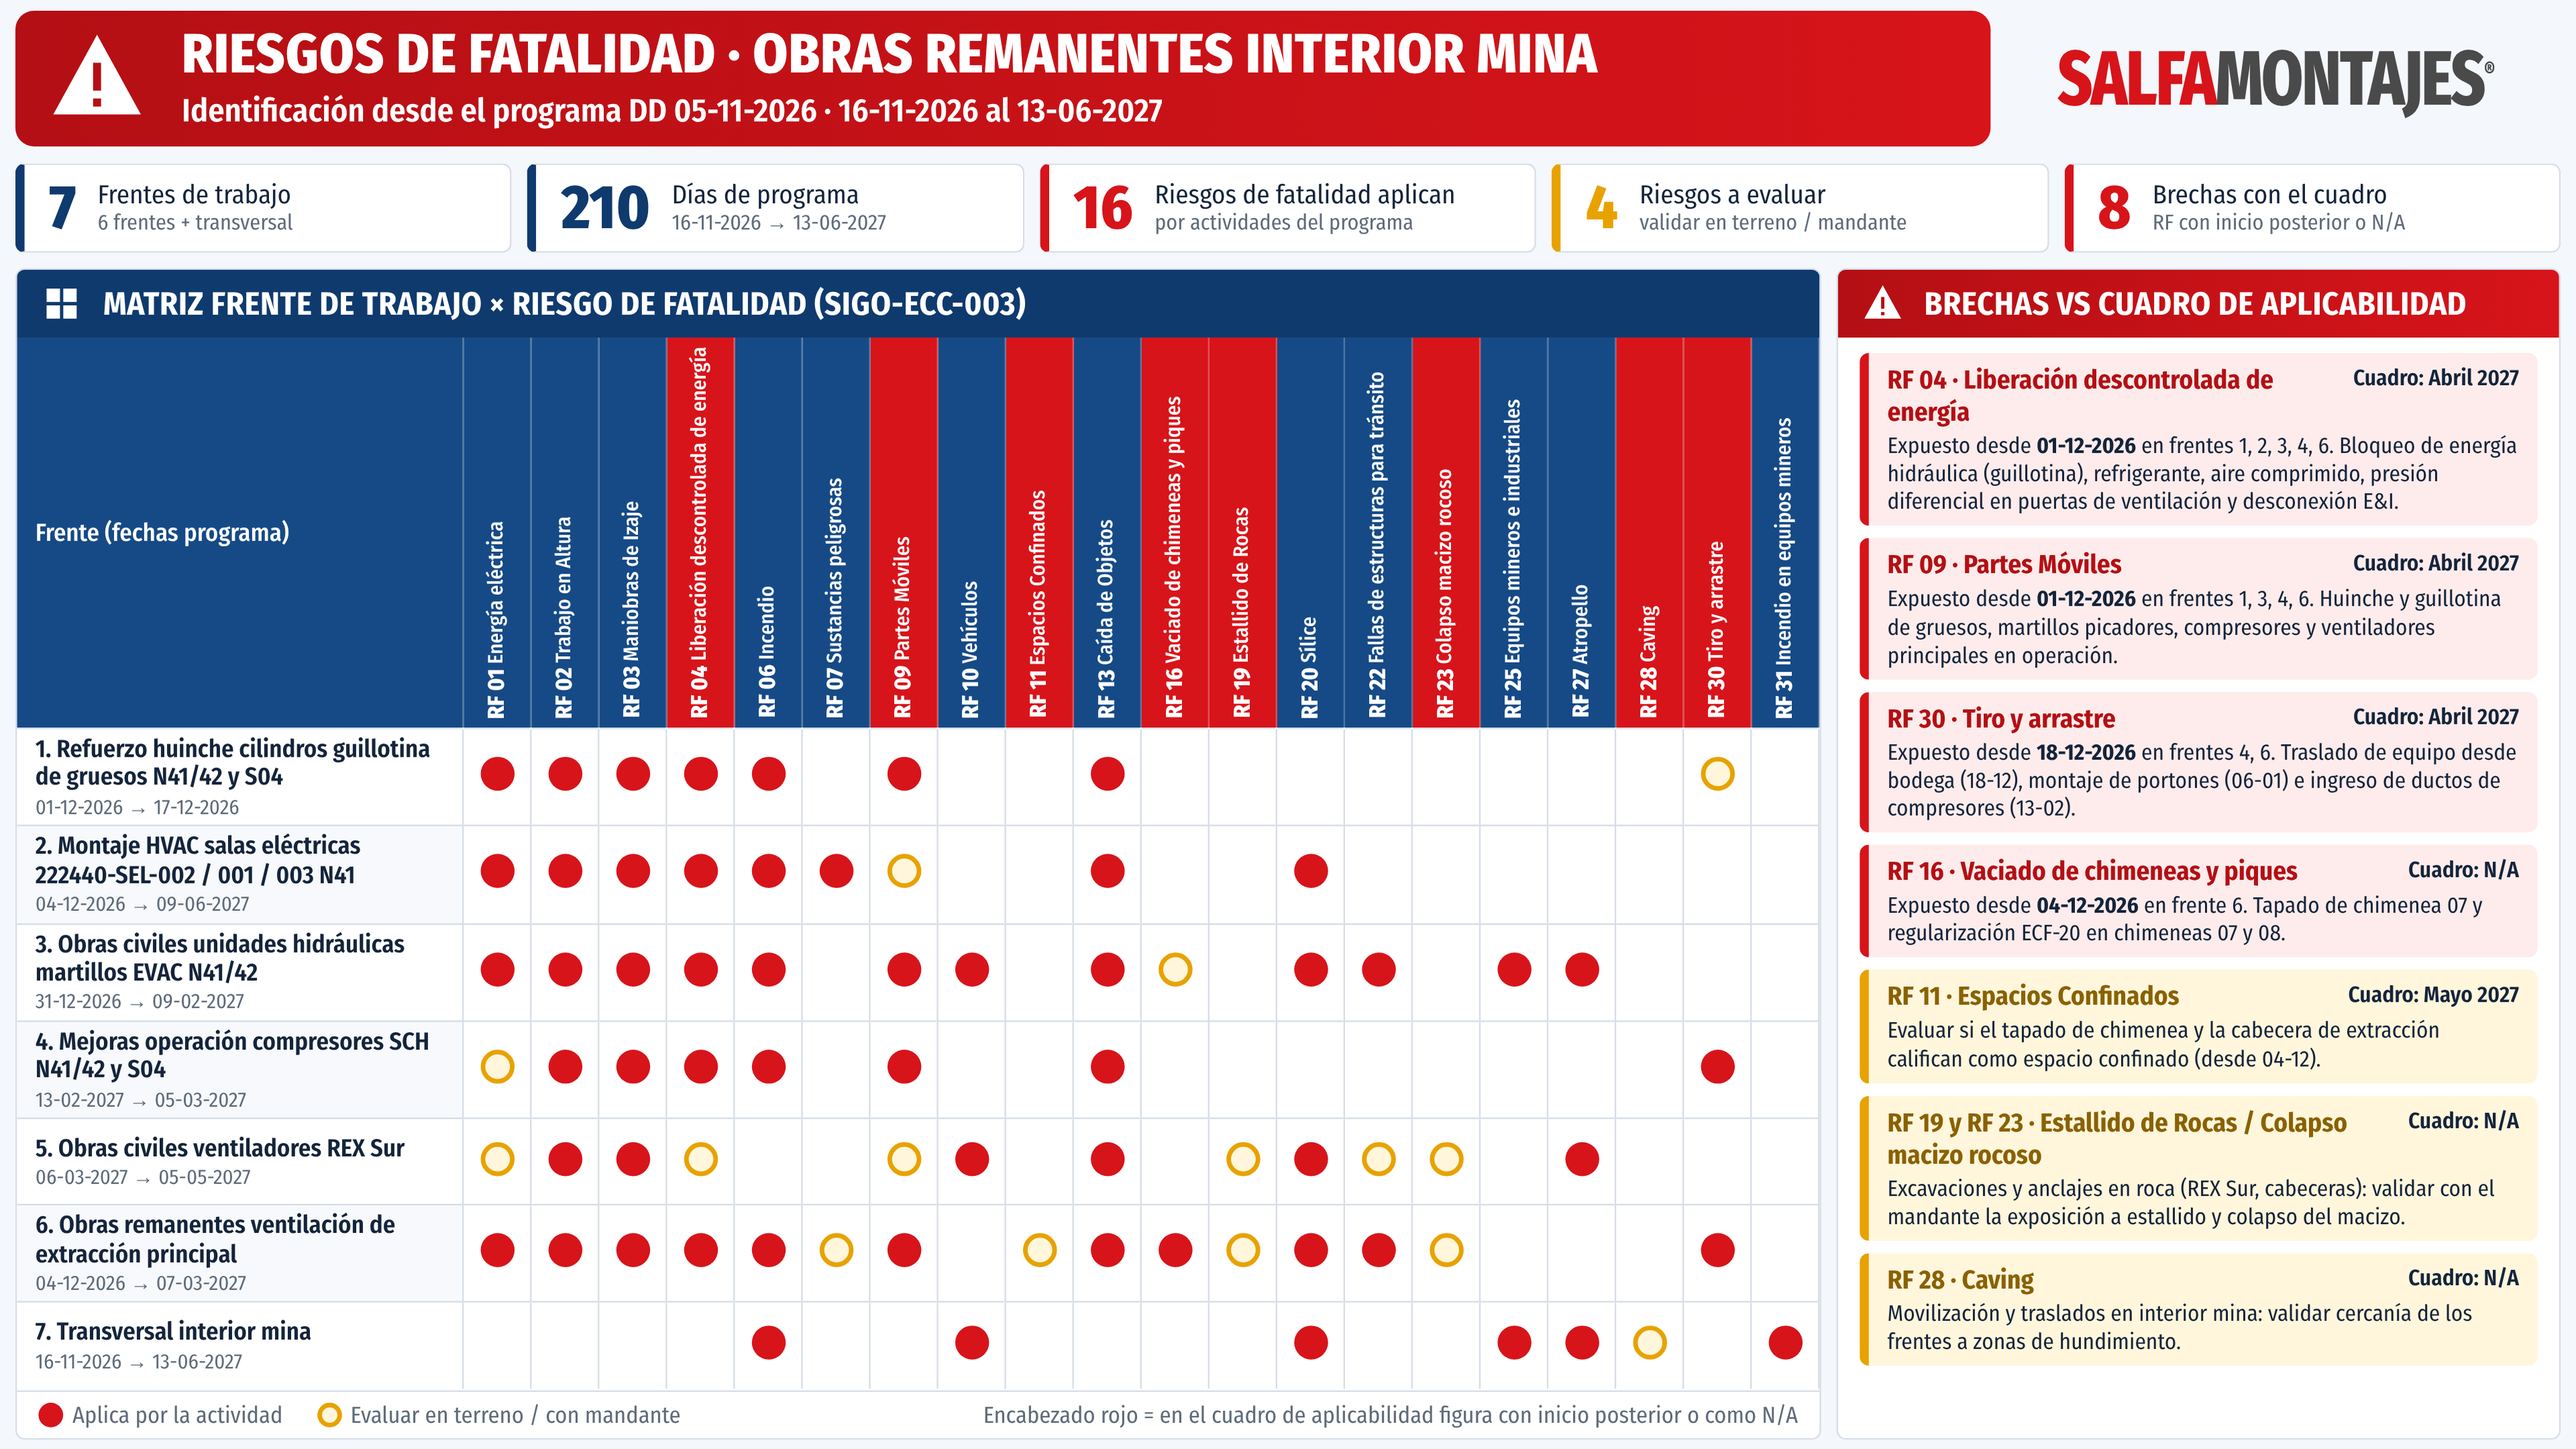
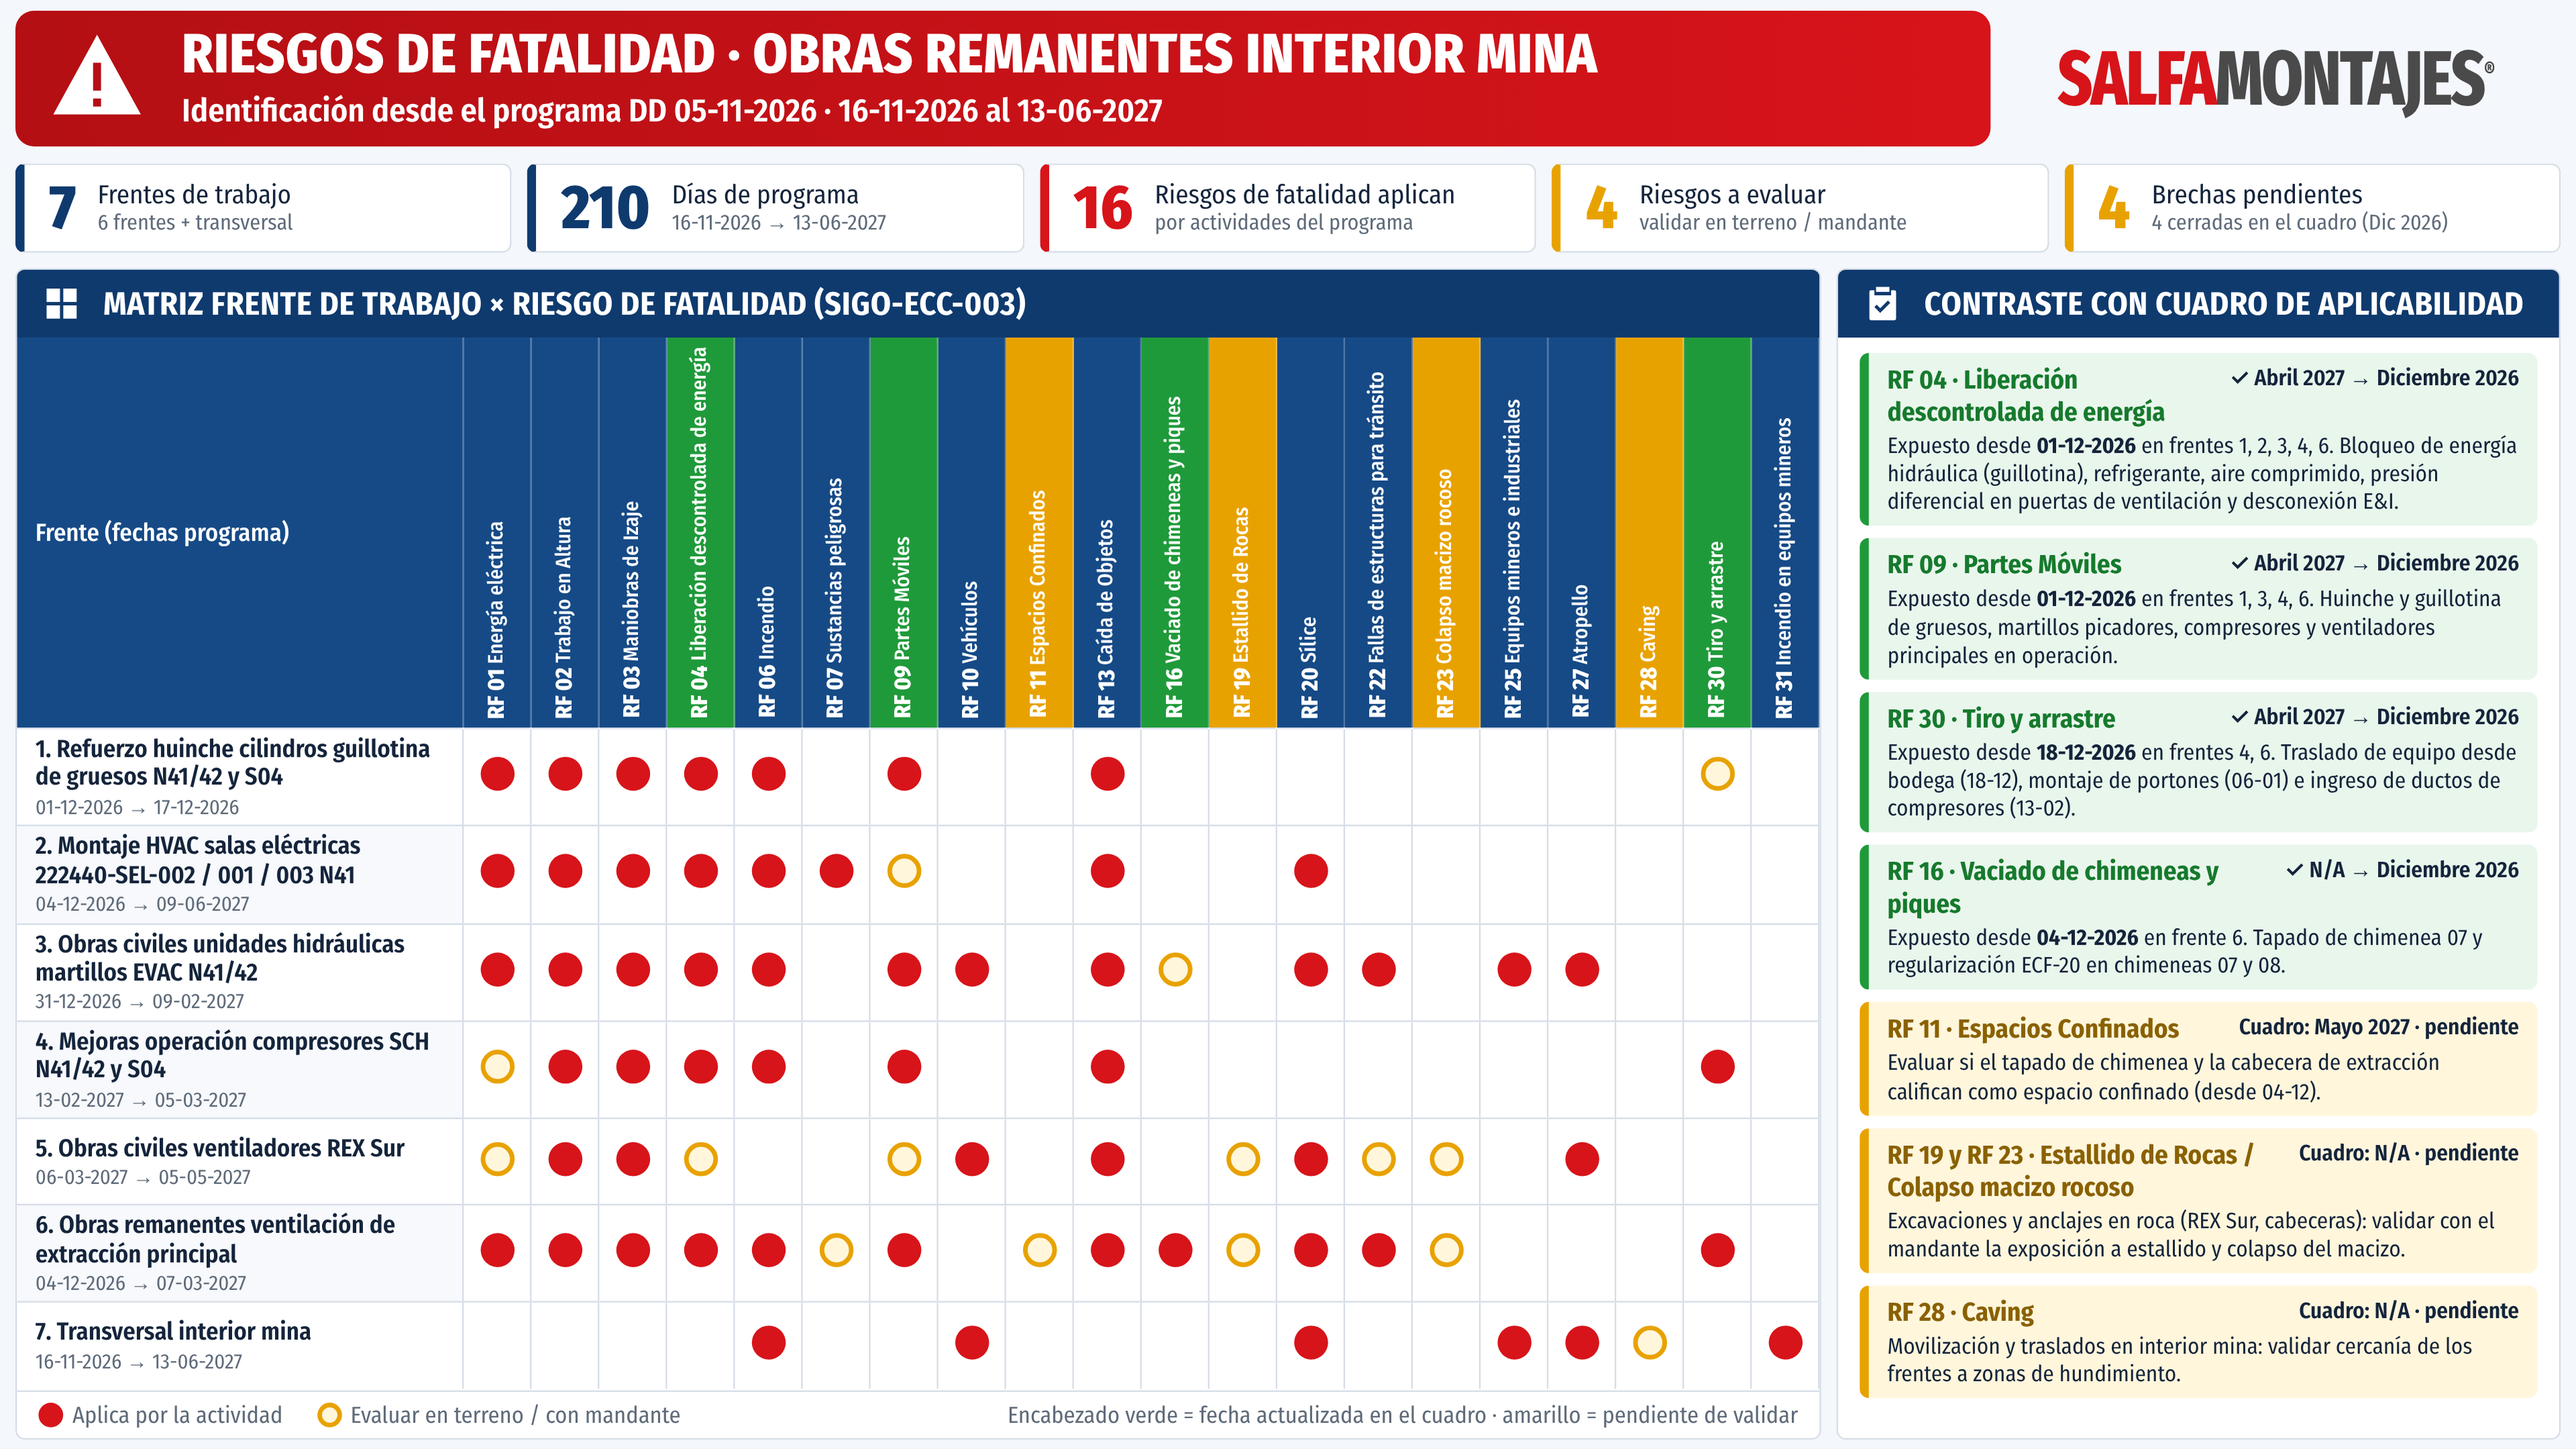
Actualizar diapositivas de riesgos del programa: brechas cerradas y pendientes con el cuadro
Claude-Session: https://claude.ai/code/session_01R7SUHWrVXsce4pGmmGYyHg

diff --git a/riesgos-fatalidad-obras-remanentes-interior-mina.html b/riesgos-fatalidad-obras-remanentes-interior-mina.html
@@ -35,7 +35,7 @@
   .mx th.rf{height:138px;width:44px;padding:0;vertical-align:bottom}
   .mx th.rf div{writing-mode:vertical-rl;transform:rotate(180deg);font-size:13.5px;line-height:1.05;padding:6px 0;margin:0 auto;white-space:nowrap}
   .mx th.rf div b{font-weight:800;font-size:15px}
-  .mx th.rf.alert{background:var(--red)}
+  .mx th.rf.alert{background:var(--amber)}.mx th.rf.done{background:var(--green)}
   .mx th.fr{text-align:left;padding:0 12px;font-size:16px}
   .mx td{border-top:1px solid var(--line);border-right:1px solid var(--line);text-align:center;height:56px;font-size:15px}
   .mx td.fr{text-align:left;padding:4px 12px;font-size:16px;line-height:1.15;font-weight:600}
@@ -51,6 +51,8 @@
   .alerts{padding:10px 14px;display:flex;flex-direction:column;gap:8px;overflow:hidden}
   .al{border-left:6px solid var(--red);background:#fdeceb;border-radius:6px;padding:7px 12px}
   .al.e{border-color:var(--amber);background:#fff6dc}
+  .al.ok{border-color:var(--green);background:#e9f6ec}
+  .al.ok h4{color:#167a2d}
   .al h4{font-size:17px;font-weight:700;color:var(--red2);display:flex;justify-content:space-between;gap:8px}
   .al.e h4{color:#8a6100}
   .al h4 span{font-weight:600;color:var(--ink);font-size:14.5px;white-space:nowrap}
@@ -88,10 +90,10 @@
     <div class="card">
       <div class="head"><svg viewBox="0 0 24 24"><path d="M3 3h8v8H3zm10 0h8v8h-8zM3 13h8v8H3zm10 0h8v8h-8z"/></svg>MATRIZ FRENTE DE TRABAJO × RIESGO DE FATALIDAD (SIGO-ECC-003)</div>
       <table class="mx" id="mx"></table>
-      <div class="legend"><span><span class="dot a"></span>Aplica por la actividad</span><span><span class="dot e"></span>Evaluar en terreno / con mandante</span><span style="margin-left:auto">Encabezado rojo = en el cuadro de aplicabilidad figura con inicio posterior o como N/A</span></div>
+      <div class="legend"><span><span class="dot a"></span>Aplica por la actividad</span><span><span class="dot e"></span>Evaluar en terreno / con mandante</span><span style="margin-left:auto">Encabezado verde = fecha actualizada en el cuadro · amarillo = pendiente de validar</span></div>
     </div>
     <div class="card">
-      <div class="head red"><svg viewBox="0 0 24 24"><path d="M12 1 23 21H1zm-1 7v7h2V8zm0 9v2h2v-2z"/></svg>BRECHAS VS CUADRO DE APLICABILIDAD</div>
+      <div class="head"><svg viewBox="0 0 24 24"><path d="M8 2h8v3H8zM5 4h2v3h10V4h2a1 1 0 0 1 1 1v16a1 1 0 0 1-1 1H5a1 1 0 0 1-1-1V5a1 1 0 0 1 1-1zm5.5 13.5 6-6-1.4-1.4-4.6 4.6-2.1-2.1-1.4 1.4z"/></svg>CONTRASTE CON CUADRO DE APLICABILIDAD</div>
       <div class="alerts" id="alerts"></div>
     </div>
   </div>
@@ -125,12 +127,12 @@
 // Riesgos de fatalidad (SIGO-ECC-003) y su estado en el cuadro de aplicabilidad Etapa 2
 const RF = {
   1:['Energía eléctrica','Vigente'], 2:['Trabajo en Altura','Vigente'], 3:['Maniobras de Izaje','Vigente'],
-  4:['Liberación descontrolada de energía','Abril 2027'], 6:['Incendio','Vigente'], 7:['Sustancias peligrosas','Vigente'],
-  9:['Partes Móviles','Abril 2027'], 10:['Vehículos','Vigente'], 11:['Espacios Confinados','Mayo 2027'],
-  13:['Caída de Objetos','Vigente'], 16:['Vaciado de chimeneas y piques','N/A'], 19:['Estallido de Rocas','N/A'],
+  4:['Liberación descontrolada de energía','Diciembre 2026','Abril 2027'], 6:['Incendio','Vigente'], 7:['Sustancias peligrosas','Vigente'],
+  9:['Partes Móviles','Diciembre 2026','Abril 2027'], 10:['Vehículos','Vigente'], 11:['Espacios Confinados','Mayo 2027'],
+  13:['Caída de Objetos','Vigente'], 16:['Vaciado de chimeneas y piques','Diciembre 2026','N/A'], 19:['Estallido de Rocas','N/A'],
   20:['Sílice','Vigente'], 22:['Fallas de estructuras para tránsito','Vigente'], 23:['Colapso macizo rocoso','N/A'],
   25:['Equipos mineros e industriales','Vigente'], 27:['Atropello','Vigente'], 28:['Caving','N/A'],
-  30:['Tiro y arrastre','Abril 2027'], 31:['Incendio en equipos mineros','Vigente']
+  30:['Tiro y arrastre','Diciembre 2026','Abril 2027'], 31:['Incendio en equipos mineros','Vigente']
 };
 const COLS = Object.keys(RF).map(Number);
 
@@ -203,7 +205,8 @@ const F = [
 const pad=n=>String(n).padStart(2,'0');
 F.forEach(f=>{f.A=new Set();f.E=new Set();f.p.forEach(([_,a,e])=>{a.forEach(x=>f.A.add(x));(e||[]).forEach(x=>f.E.add(x))});f.A.forEach(x=>f.E.delete(x))});
 const allA=new Set(F.flatMap(f=>[...f.A])), allE=new Set(F.flatMap(f=>[...f.E]).filter(x=>!allA.has(x)));
-const gap=c=>RF[c][1]!=='Vigente';
+const OPEN=new Set([11,19,23,28]), DONE=new Set([4,9,16,30]);
+const gap=c=>OPEN.has(c);
 
 // KPIs
 document.getElementById('kpis').innerHTML=[
@@ -211,20 +214,20 @@ document.getElementById('kpis').innerHTML=[
   [210,'Días de programa','16-11-2026 → 13-06-2027','var(--navy)'],
   [allA.size,'Riesgos de fatalidad aplican','por actividades del programa','var(--red)'],
   [allE.size,'Riesgos a evaluar','validar en terreno / mandante','var(--amber)'],
-  [COLS.filter(c=>gap(c)&&(allA.has(c)||allE.has(c))).length,'Brechas con el cuadro','RF con inicio posterior o N/A','var(--red)']
+  [OPEN.size,'Brechas pendientes',`${DONE.size} cerradas en el cuadro (Dic 2026)`,'var(--amber)']
 ].map(([v,t,s,c])=>`<div class="kpi" style="border-left-color:${c}"><b style="color:${c}">${v}</b><span>${t}<small>${s}</small></span></div>`).join('');
 
 // Matriz
-document.getElementById('mx').innerHTML=`<thead><tr><th class="fr">Frente (fechas programa)</th>${COLS.map(c=>`<th class="rf ${gap(c)?'alert':''}"><div><b>RF ${pad(c)}</b> ${RF[c][0]}</div></th>`).join('')}</tr></thead><tbody>`+
+document.getElementById('mx').innerHTML=`<thead><tr><th class="fr">Frente (fechas programa)</th>${COLS.map(c=>`<th class="rf ${gap(c)?'alert':DONE.has(c)?'done':''}"><div><b>RF ${pad(c)}</b> ${RF[c][0]}</div></th>`).join('')}</tr></thead><tbody>`+
  F.map(f=>`<tr><td class="fr">${f.id}. ${f.n}<small>${f.d}</small></td>${COLS.map(c=>`<td>${f.A.has(c)?'<span class="dot a"></span>':f.E.has(c)?'<span class="dot e"></span>':''}</td>`).join('')}</tr>`).join('')+'</tbody>';
 
 // Brechas
 const first=c=>{const fs=F.filter(f=>f.A.has(c));const pd=s=>{const [d,m,y]=s.split(' ')[0].split('-');return +(y+m+d)};fs.sort((a,b)=>pd(a.d)-pd(b.d));return fs};
 const AL=[
-  [4,'a','Bloqueo de energía hidráulica (guillotina), refrigerante, aire comprimido, presión diferencial en puertas de ventilación y desconexión E&I.'],
-  [9,'a','Huinche y guillotina de gruesos, martillos picadores, compresores y ventiladores principales en operación.'],
-  [30,'a','Traslado de equipo desde bodega (18-12), montaje de portones (06-01) e ingreso de ductos de compresores (13-02).',null,'18-12-2026'],
-  [16,'a','Tapado de chimenea 07 y regularización ECF-20 en chimeneas 07 y 08.'],
+  [4,'ok','Bloqueo de energía hidráulica (guillotina), refrigerante, aire comprimido, presión diferencial en puertas de ventilación y desconexión E&I.'],
+  [9,'ok','Huinche y guillotina de gruesos, martillos picadores, compresores y ventiladores principales en operación.'],
+  [30,'ok','Traslado de equipo desde bodega (18-12), montaje de portones (06-01) e ingreso de ductos de compresores (13-02).',null,'18-12-2026'],
+  [16,'ok','Tapado de chimenea 07 y regularización ECF-20 en chimeneas 07 y 08.'],
   [11,'e','Evaluar si el tapado de chimenea y la cabecera de extracción califican como espacio confinado (desde 04-12).'],
   [19,'e','Excavaciones y anclajes en roca (REX Sur, cabeceras): validar con el mandante la exposición a estallido y colapso del macizo.',23],
   [28,'e','Movilización y traslados en interior mina: validar cercanía de los frentes a zonas de hundimiento.']
@@ -232,7 +235,8 @@ const AL=[
 document.getElementById('alerts').innerHTML=AL.map(([c,t,txt,c2,dd])=>{
   const fs=first(c), d=dd||(fs.length?fs[0].d.split(' ')[0]:''), ids=fs.map(f=>f.id).sort((a,b)=>a-b);
   const tit=c2?`RF ${pad(c)} y RF ${pad(c2)} · ${RF[c][0]} / ${RF[c2][0]}`:`RF ${pad(c)} · ${RF[c][0]}`;
-  return `<div class="al ${t}"><h4>${tit}<span>Cuadro: ${RF[c][1]}</span></h4><p>${t==='a'?`Expuesto desde <b>${d}</b> en ${ids.length>1?'frentes':'frente'} ${ids.join(', ')}. `:''}${txt}</p></div>`}).join('');
+  const st=t==='ok'?`✓ ${RF[c][2]} → ${RF[c][1]}`:`Cuadro: ${RF[c][1]} · pendiente`;
+  return `<div class="al ${t}"><h4>${tit}<span>${st}</span></h4><p>${t==='ok'?`Expuesto desde <b>${d}</b> en ${ids.length>1?'frentes':'frente'} ${ids.join(', ')}. `:''}${txt}</p></div>`}).join('');
 
 // Detalle
 const chips=(a,e)=>a.map(x=>`<span class="chip">RF ${pad(x)}</span>`).join('')+(e||[]).map(x=>`<span class="chip e">RF ${pad(x)}?</span>`).join('');
